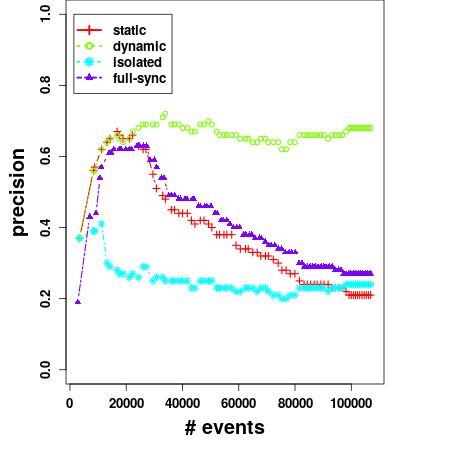
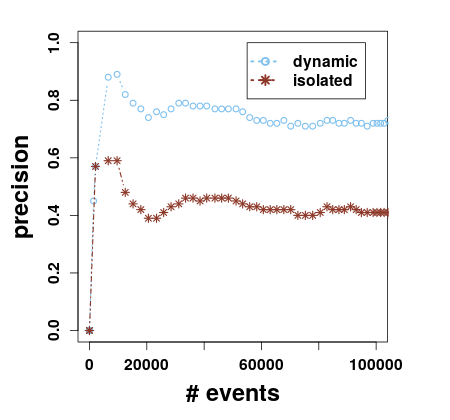
added new result figures

diff --git a/evaluation.tex b/evaluation.tex
@@ -17,62 +17,110 @@ We compare our proposed system against the isolated prediction approach, we comp
 	
 \item  $\mathit{precision = \frac{\#\ of\ correct\ predictions}{\#\ of\ total\ predictions}}$ is the percent of the produced predictions are correct (i.e., a full match occurred within the prediction interval).   
 
-\item $\mathit{recall}$ is the fraction of the full matches of the pattern are successfully predicted by the system at least once. 
+\item $\mathit{spread} =end(I) -start(I)$ is the width of the prediction interval $I$. 
 
 \end{enumerate*} 
-\par Moreover, we study the communication cost by measuring the $\mathit{cumulative\ communication}$ that captures the number of messages are required to perform the distributed online learning modes to synchronize the prediction models. In next, we present the experimental results for the patterns  $\mathcal{P}_1=Sailing$ with an order of $m=2$, and   $\mathcal{P}_2=$\textit{changeInHeading; gapStart; gapEnd; changeInHeading} with first order $m=1$. As well as all experiments are performed with batch size equals 100  ($b=100$), a variance threshold of 2 ($\Delta=2$), and $80\%$ as PMC prediction threshold ($\theta_{fc}=80\%$).
+\par Moreover, we study the communication cost by measuring the $\mathit{cumulative\ communication}$ that captures the number of messages are required to perform the distributed online learning modes to synchronize the prediction models. In next, we present the experimental results for the patterns  $\mathcal{P}_1=Sailing$ with an order of $m=2$, and   $\mathcal{P}_2=$\textit{changeInHeading; gapStart; gapEnd; changeInHeading} with first order $m=1$. As well as all experiments are performed with setting the batch size to 100  ($b=100$), the variance threshold of 2 ($\Delta=2$), $80\%$ as PMC prediction threshold ($\theta_{fc}=80\%$), and 200 for the maximum spread is allowed.
 
 \begin{figure}[h]
 	
-	\includegraphics[width=.5\textwidth,height=.3\textheight]{figures/precision.png}
+	\includegraphics[width=.5\textwidth]{figures/precision_p1.png}
 	
 	\caption{Precision scores with respect to the number of input events over time for $\mathcal{P}_1$.}
 	\label{fig:precsions}
 \end{figure}
 
 \subsubsection*{Experimental results} Figure ~\ref{fig:precsions} depicts the average precision scores of predictions models (one prediction model per vessel) of all approaches for the first pattern $\mathcal{P}_1=Sailing$, namely, isolated without synchronization, continuous (full-sync), static, and our recommended approach based on the dynamic synchronization scheme. It can be clearly seen that all methods of distributed learning outperform the isolated prediction models. The most complex method, continuous synchronization, has the higher precision rates, while the static and dynamic synchronization schemes have a close precision scores.
+ 
 
-In addition, we have found that in order to have an improvement in terms of precision for the second pattern ($\mathcal{P}_2$), a slight modification is needed that to only enable the synchronization of the prediction models associated with vessels that belong to the same type. Currently, this change is technically performed by an extra filter step that passes only one type of vessels at time, while multiple runs of the system are required for all vessel types. Fore example, Figure ~\ref{fig:precsions_p2} shows the precision scores for vessels of type \textit{PLEASURE CRAFT}. An interesting observation is that the dynamic synchronization approach has the higher precision scores.  
 
- \begin{figure}[h]
- 	
- 	\includegraphics[width=.5\textwidth,height=.3\textheight]{figures/precision_p2.png}
- 	
- 	\caption{Precision scores of $\mathcal{P}_2$  for \textit{PLEASURE CRAFT} vessels.}
- 	\label{fig:precsions_p2}
- \end{figure}
  
  
-\par On the other hand, Figure ~\ref{fig:comm} provides the amount of the accumulated communication that is required by the three modes of the distributed online learning, while, the isolated approach does not require any communication between the predictors. These results are shown  $\mathcal{P}_1$, while we have omitted the measurements of  $\mathcal{P}_2$ since it has shown a similar behavior.  As expected, a larger amount of communication is required for the continuous synchronization comparing to the static and dynamic approaches, and it can bee seen that we can reduce the communication overhead by applying the dynamic synchronization protocol (a reduction by a factor of 100) comparing to the static synchronization scheme, even with a small variance threshold $\Delta=2$. Furthermore,  the dynamic  protocol is still preserving a close predictive performance to the static one (see Figure ~\ref{fig:precsions}).    
-
+\par On the other hand, Figure ~\ref{fig:comm} provides the amount of the accumulated communication that is required by the three modes of the distributed online learning, while, the isolated approach does not require any communication between the predictors. These results are shown  $\mathcal{P}_1$.  As expected, a larger amount of communication is required for the continuous synchronization comparing to the static and dynamic approaches, and it can bee seen that we can reduce the communication overhead by applying the dynamic synchronization protocol (a reduction by a factor of 100) comparing to the static synchronization scheme, even with a small variance threshold $\Delta=2$. Furthermore,  the dynamic  protocol is still preserving a close predictive performance to the static one (see Figure ~\ref{fig:precsions}).    
 
 \begin{center}
 	
 	\begin{figure}[h]
 		
-		\includegraphics[width=.5\textwidth,height=.3\textheight]{figures/communication.png}
+		\includegraphics[width=.5\textwidth]{figures/communication.png}
 		
 		\caption{Commutative communication with respect to the number of input events over time for $\mathcal{P}_1$.}
 		\label{fig:comm}
 	\end{figure}
 \end{center}
 
-\par In Table ~\ref{tab:recall}, we present the mean of the recall scores for the both patterns in the all approaches It can be seen that the different approaches have a close recall scores, while the most frequent pattern ($\mathcal{P}_1$) has a lower recall than $\mathcal{P}_2$.
 
-\begin{table}[h]
-	\caption{Average recall for  $\mathcal{P}_1$ and $\mathcal{P}_2$.}
-	\label{tab:recall}
-	\begin{tabular}{lcc}
-		\toprule
-		Approach &Mean recall for $\mathcal{P}_1$ &Mean recall for $\mathcal{P}_2$\\
-		\midrule
-		isolated & 0.1707  &0.947 \\
-		static & 0.1754  &  0.960 \\
-		dynamic & 0.174  & 0.0.964 \\
-		full-sync & 0.1817  & 0.972 \\
-		\bottomrule
-	\end{tabular}
-\end{table}
+We have investigated the effect of the distributed synchronization of the prediction models on the average spread value, Figure  ~\ref{fig:spread}  shows the spread results for all approaches. It can be seen that the spread is higher for the distributed learning based methods comparing to the isolated approach. Furthermore, the average spread is decreasing over time, as result of confidence increase by the models. This may explain the drop in the precision scores from the beginning until reaching the convergence. 
+
+\begin{center}
+	
+	\begin{figure}[h]
+		
+		\includegraphics[width=.5\textwidth]{figures/spread_p1.png}
+		
+		\caption{Average spread for $\mathcal{P}_1$.}
+		\label{fig:spread}
+	\end{figure}
+\end{center}
+
+
+
+
+In addition, we have found that in order to have an improvement in terms of precision for the second pattern ($\mathcal{P}_2$), a slight modification is needed that to only enable the synchronization of the prediction models associated with vessels that belong to the same type. Currently, this change is technically performed by an extra filter step that passes only one type of vessels at time, while multiple runs of the system are required for all vessel types. Fore example, Figure ~\ref{fig:precsions_p2} shows the precision scores for vessels of type \textit{PLEASURE CRAFT}. An interesting observation is that the dynamic synchronization approach still has  a higher precision scores than the isolated approach. 
+
+
+ \begin{figure}[h]
+	
+	\includegraphics[width=.5\textwidth]{figures/precision_p2.png}
+	
+	\caption{Precision scores of $\mathcal{P}_2$  for \textit{PLEASURE CRAFT} vessels.}
+	\label{fig:precsions_p2}
+\end{figure}
+
+
+
+
+
+
+
+
+
+
+
+
+
+
+
+
+
+
+
+
+
+
+
+
+
+
+
+
+
+%\par In Table ~\ref{tab:recall}, we present the mean of the recall scores for the both patterns in the all approaches It can be seen that the different approaches have a close recall scores, while the most frequent pattern ($\mathcal{P}_1$) has a lower recall than $\mathcal{P}_2$.
+%
+%\begin{table}[h]
+%	\caption{Average recall for  $\mathcal{P}_1$ and $\mathcal{P}_2$.}
+%	\label{tab:recall}
+%	\begin{tabular}{lcc}
+%		\toprule
+%		Approach &Mean recall for $\mathcal{P}_1$ &Mean recall for $\mathcal{P}_2$\\
+%		\midrule
+%		isolated & 0.1707  &0.947 \\
+%		static & 0.1754  &  0.960 \\
+%		dynamic & 0.174  & 0.0.964 \\
+%		full-sync & 0.1817  & 0.972 \\
+%		\bottomrule
+%	\end{tabular}
+%\end{table}
 
 
  

diff --git a/technological_background.tex b/technological_background.tex
@@ -4,11 +4,8 @@
 which is employed for streaming the input event streams and as a messaging platform to enable the distributed online learning functionalities.
 
 
-%\textcolor{red}{I believe the paragraph below is not so relevant and could be omitted}
-%
-%\textbf{
-%In the datAcron project, the Flink streaming processing engine has been chosen as a primary platform for supporting the streaming operations, based on an internal comparative evaluation of several streaming platforms. Thus in this work we used it to implement our system. Although the distributed online learning framework has already been implemented in the FERARI project \cite{flouris2016ferari} based on Apache Storm.
-%}
+\par In the datAcron project, the Flink streaming processing engine has been chosen as a primary platform for supporting the streaming operations, based on an internal comparative evaluation of several streaming platforms. Thus in this work we used it to implement our system. Although the distributed online learning framework has already been implemented in the FERARI project \cite{flouris2016ferari} based on Apache Storm.
+
 
 % In Storm, a distributed application is expressed as a "topology", in which the individual processing steps called "Bolts" are connected
 %in a data workflow. This means, that each Bolt can is sending and receiving data streams from other Bolts, for example, there are bolts generating
